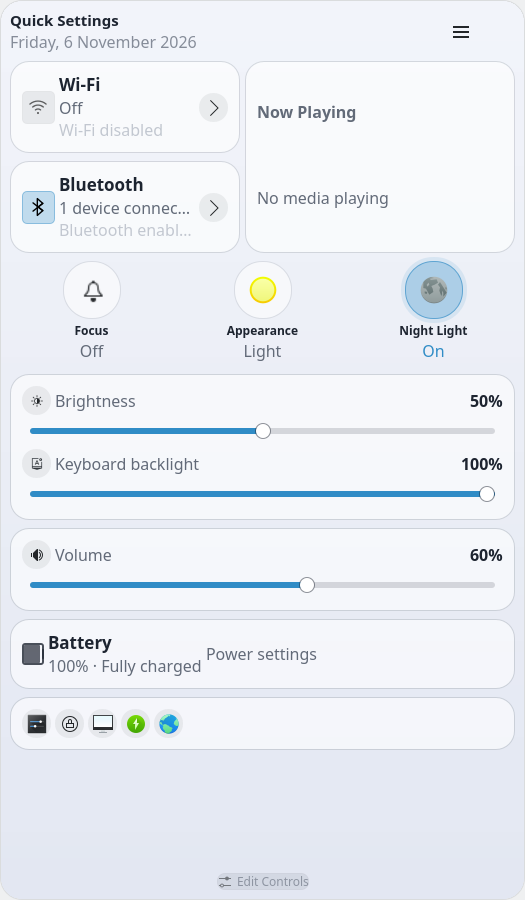
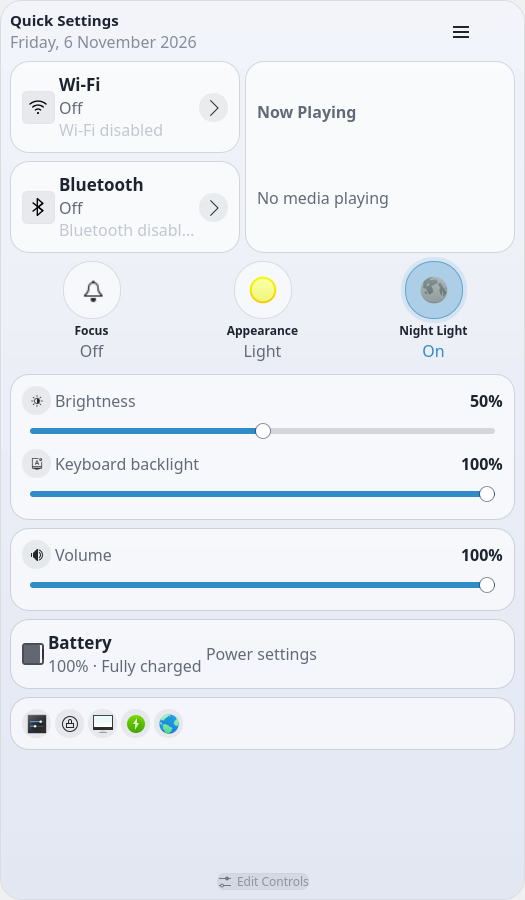
Fixed bluetooth behaviour

Changed region(s): [[0.0305, 0.1867, 0.3657, 0.28], [0.579, 0.5911, 0.9448, 0.6533], [0.061, 0.0933, 0.0914, 0.1244]]

diff --git a/package/contents/ui/ConnectivityCard.qml b/package/contents/ui/ConnectivityCard.qml
@@ -23,7 +23,17 @@ Components.GlassCard {
     readonly property bool isBluetooth: kind === "bluetooth"
 
     readonly property bool wirelessEnabled: enabledConnections.wirelessEnabled
-    readonly property var bluetoothAdapter: BluezQt.Manager ? BluezQt.Manager.usableAdapter : null
+    readonly property var bluetoothAdapter: {
+        if (!BluezQt.Manager) {
+            return null;
+        }
+        const usable = BluezQt.Manager.usableAdapter;
+        if (usable) {
+            return usable;
+        }
+        const adapters = BluezQt.Manager.adapters;
+        return adapters && adapters.length > 0 ? adapters[0] : null;
+    }
     readonly property bool bluetoothPowered: bluetoothAdapter !== null
         && bluetoothAdapter !== undefined && bluetoothAdapter.powered
     readonly property bool bluetoothBlocked: BluezQt.Manager ? BluezQt.Manager.bluetoothBlocked : true
@@ -33,7 +43,7 @@ Components.GlassCard {
     readonly property bool serviceEnabled: isWifi
         ? wirelessEnabled
         : (!bluetoothBlocked && bluetoothPowered)
-    readonly property bool adapterAvailable: isWifi || BluezQt.Manager !== null
+    readonly property bool adapterAvailable: isWifi || bluetoothAdapter !== null
 
     readonly property var activeWifi: firstActiveWifi()
     readonly property bool wifiConnected: activeWifi !== null
@@ -111,13 +121,12 @@ Components.GlassCard {
             return;
         }
 
+        const enable = !serviceEnabled;
         if (bluetoothBlocked) {
             BluezQt.Manager.bluetoothBlocked = false;
-            return;
         }
-
         if (bluetoothAdapter) {
-            bluetoothAdapter.powered = !bluetoothAdapter.powered;
+            bluetoothAdapter.powered = enable;
         }
     }
 
@@ -157,9 +166,8 @@ Components.GlassCard {
                             ? Qt.resolvedUrl("../icons/wifi.svg")
                             : Qt.resolvedUrl("../icons/bluetooth.svg")
                         isMask: true
-                        color: root.serviceEnabled ? root.t.accent : root.t.muted
-                        opacity: (root.serviceEnabled ? 1.0 : 0.6)
-                            * (root.adapterAvailable ? 1.0 : 0.45)
+                        color: root.serviceEnabled ? root.t.accent : root.t.text
+                        opacity: root.adapterAvailable ? 1.0 : 0.4
                     }
                 }
 

diff --git a/CHANGELOG.md b/CHANGELOG.md
@@ -27,6 +27,11 @@ and this project adheres to [Semantic Versioning](https://semver.org/spec/v2.0.0
 - Ship the default panel icon as a bundled SVG instead of a theme icon.
 - Use bundled Wi-Fi and Bluetooth icons for connectivity cards and lists.
 
+### Fixed
+
+- Enable Bluetooth from the connectivity card when the adapter is powered off.
+- Keep the Bluetooth card icon clearly visible while Bluetooth is off.
+
 ## [1.0.0] - 2026-11-04
 
 ### Added
